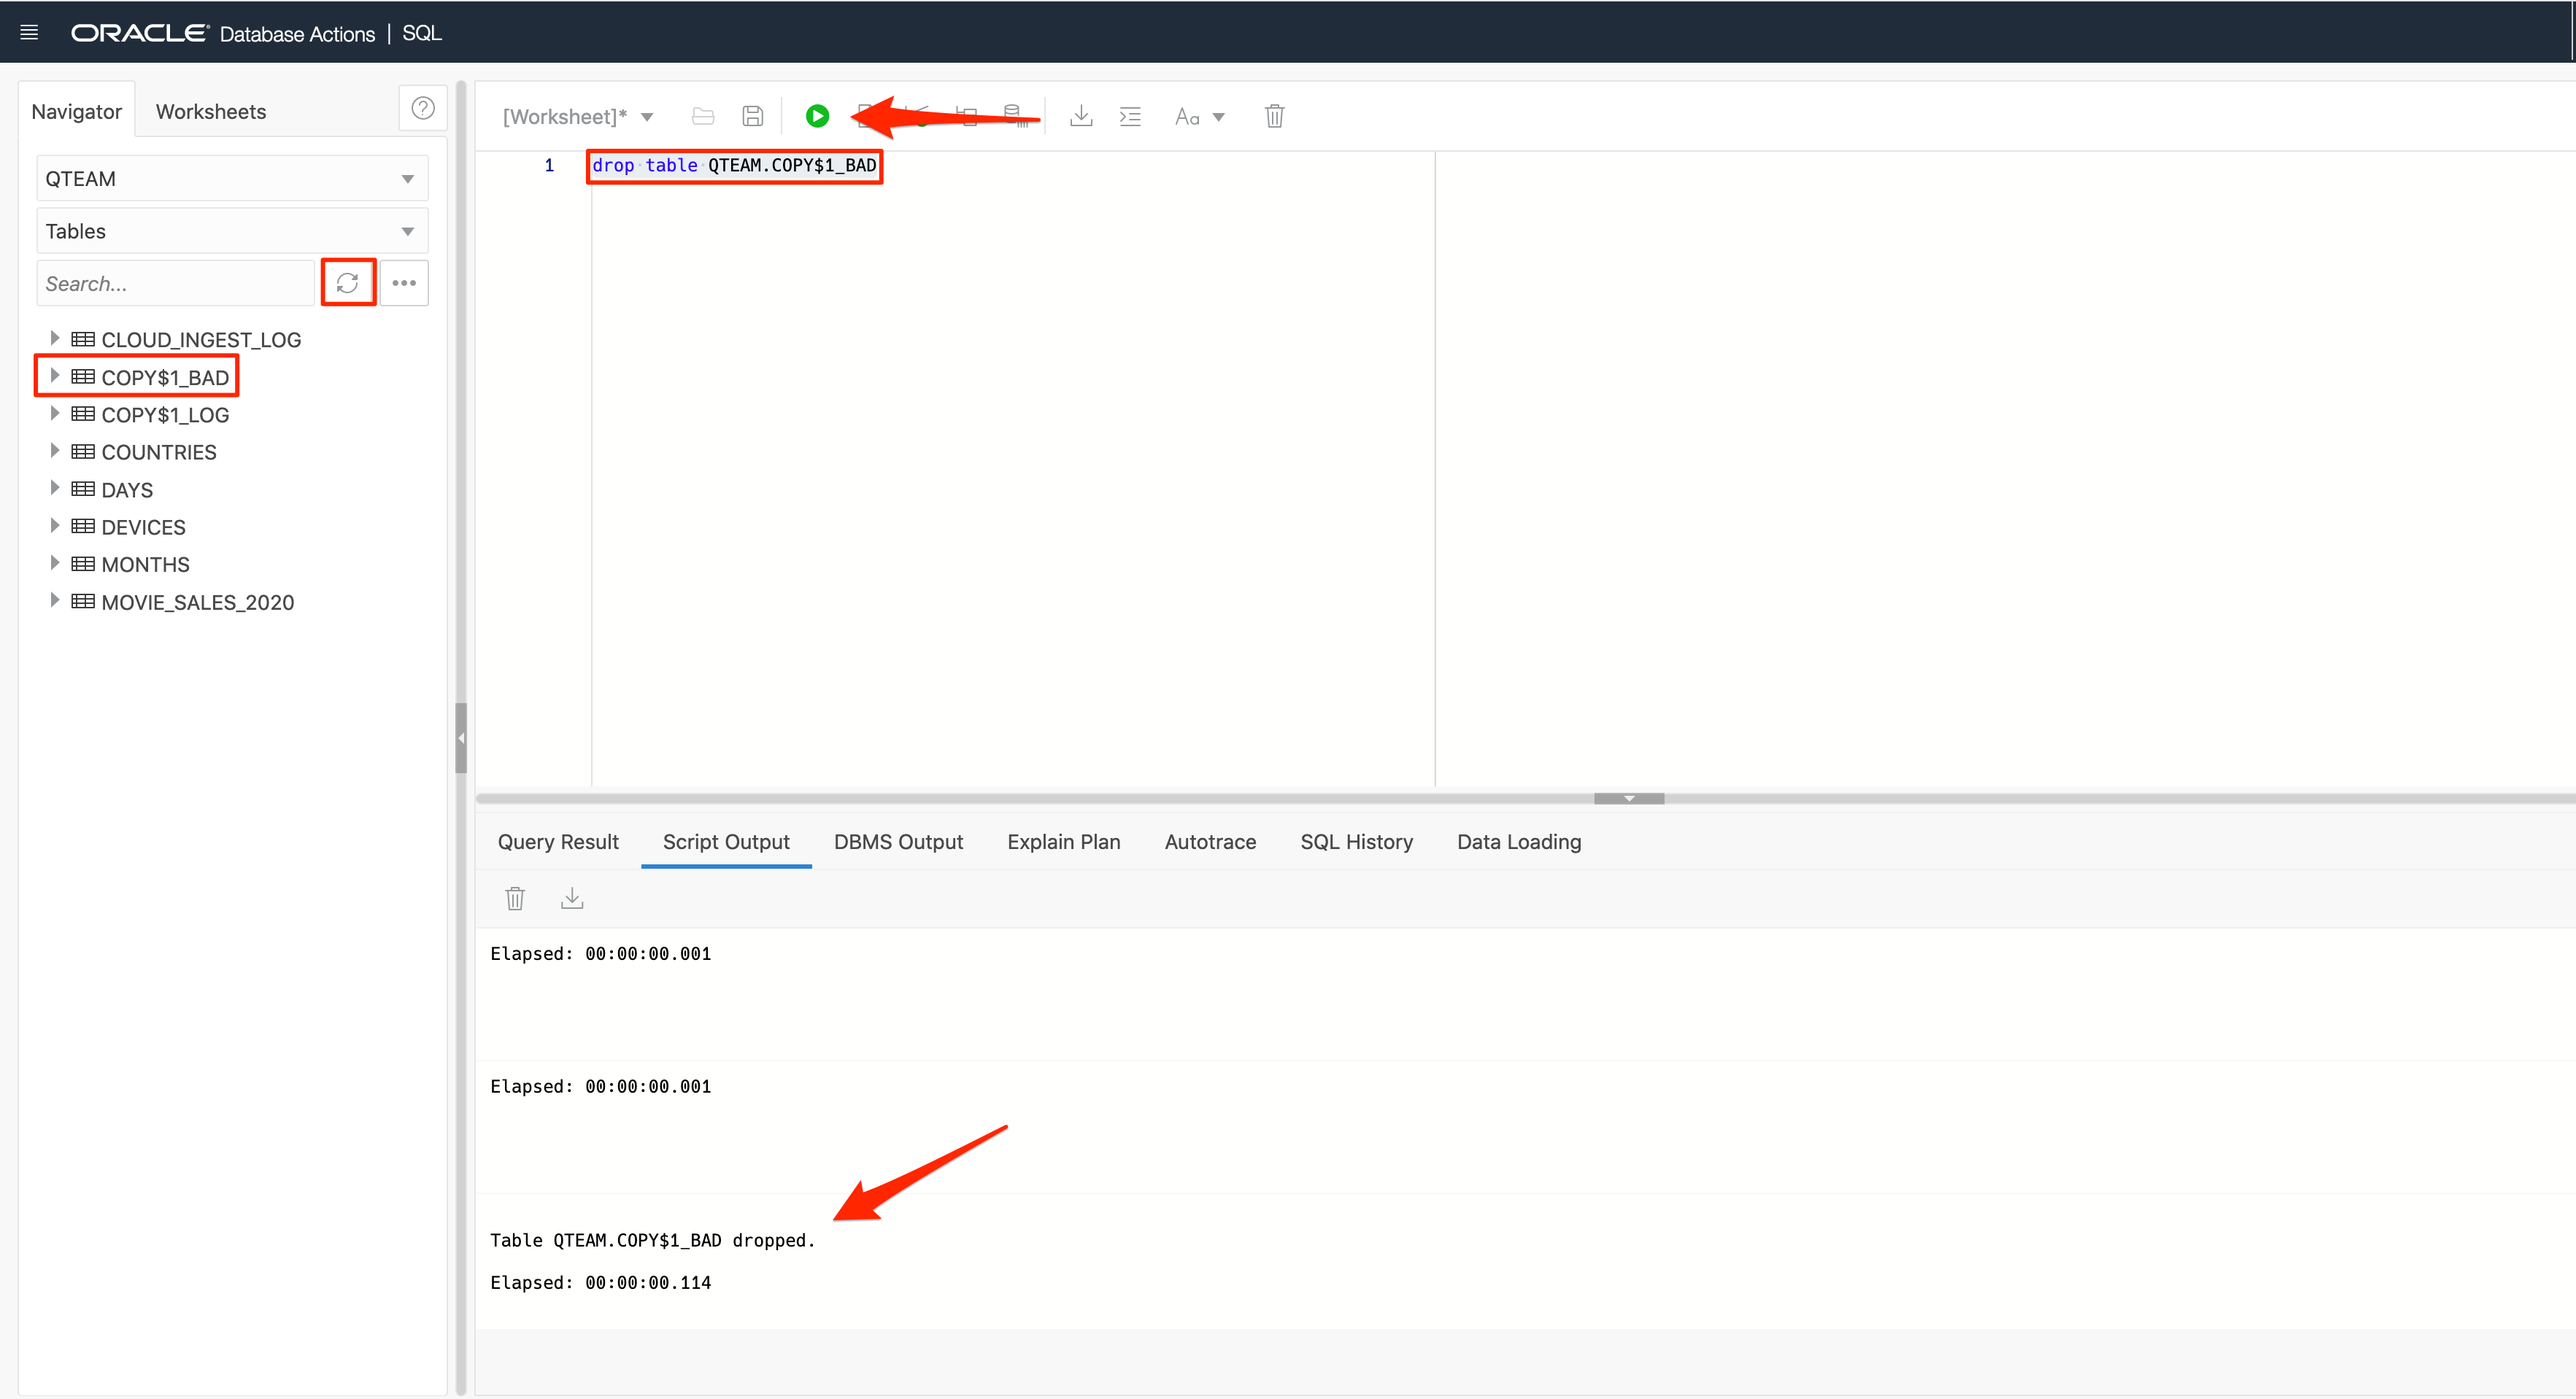
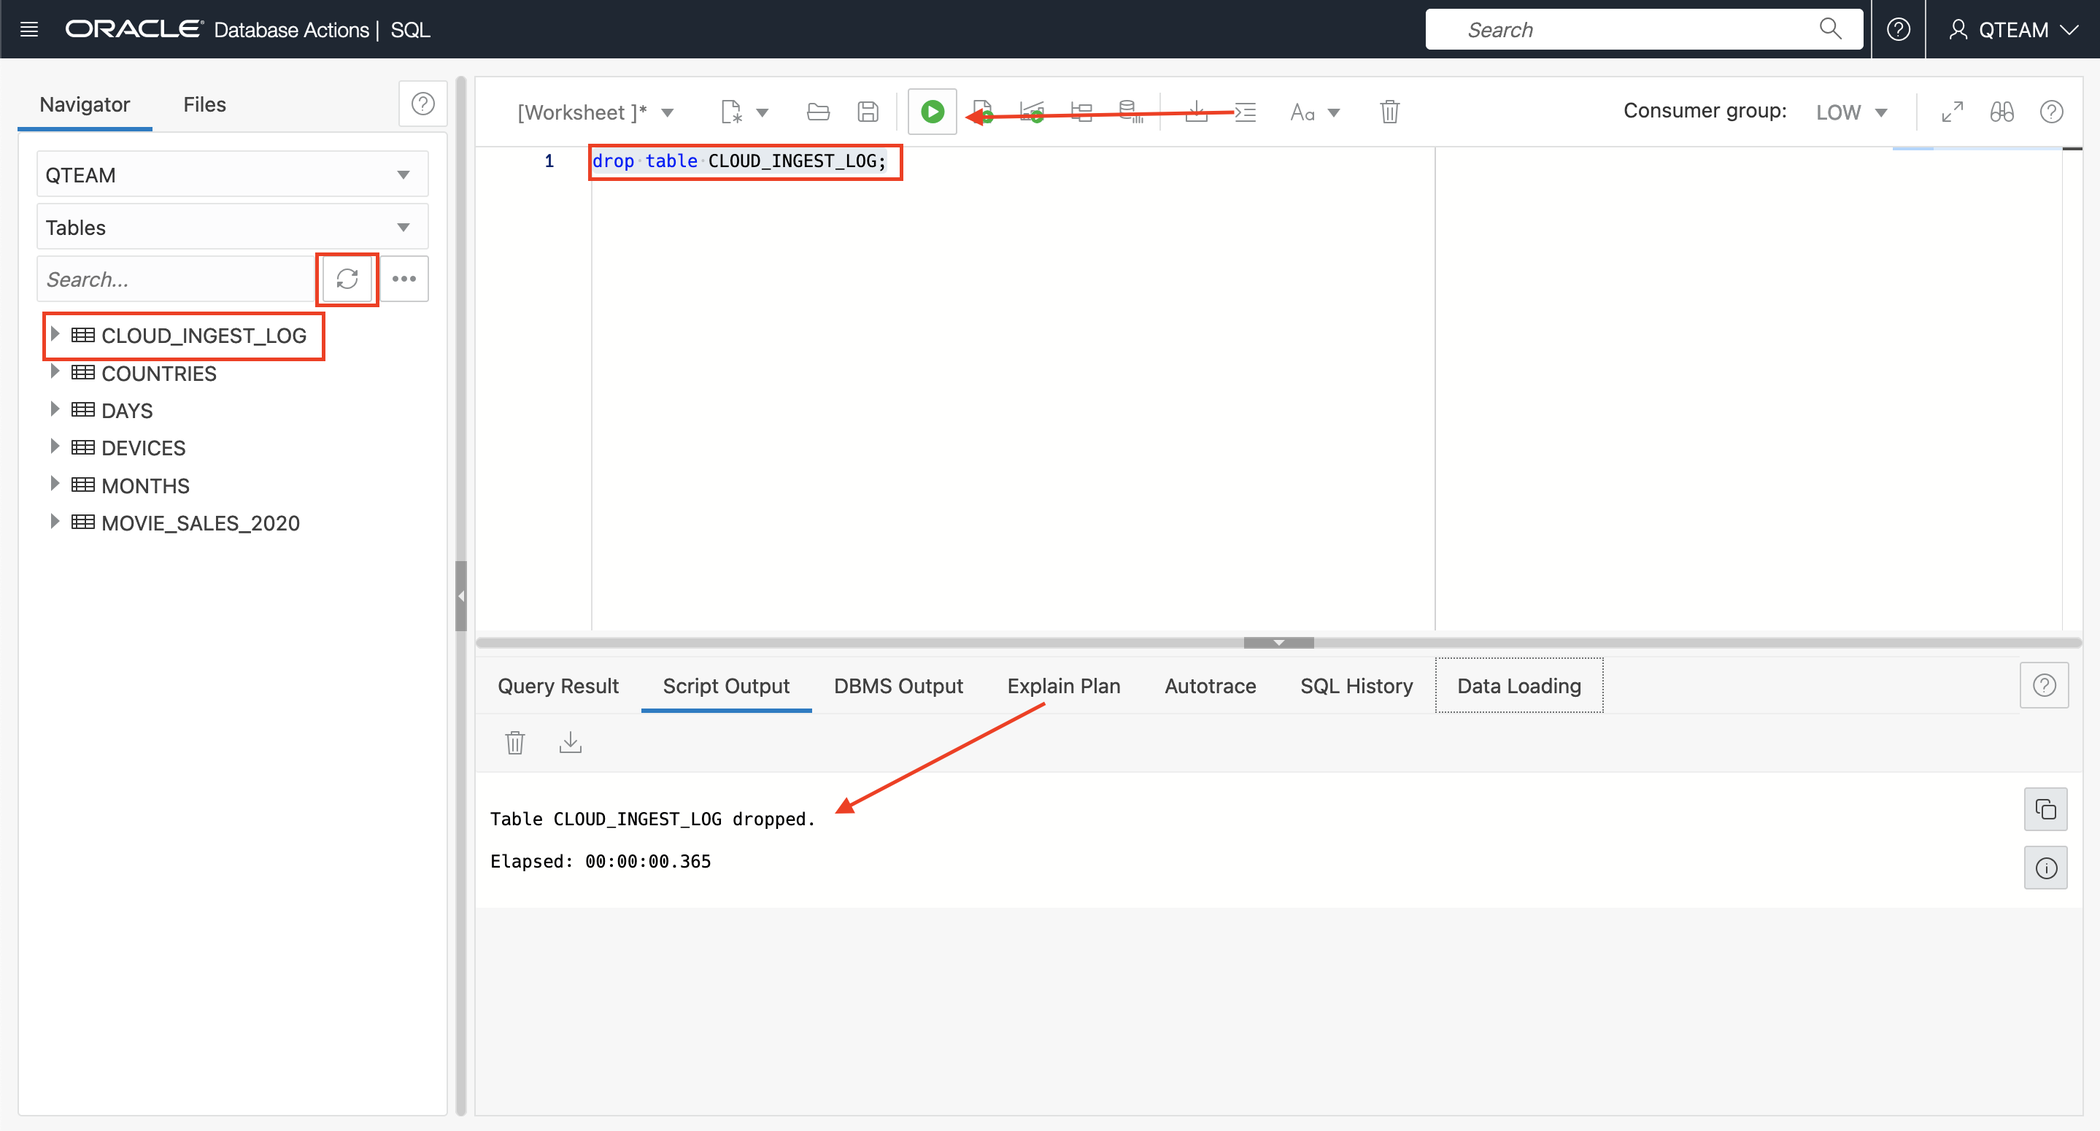
WMSID-5001: Added web transforms
Added web transforms

diff --git a/shared/workshops/adbs-tools/using-adb-tools/ocw-using-adb-tools.md b/shared/workshops/adbs-tools/using-adb-tools/ocw-using-adb-tools.md
@@ -236,12 +236,14 @@ Identify a Cloud Storage location (URI + Bucket) that is closest to you from th
 ### Inspect Data In Table MOVIE\_SALES\_2020
 
 22. Navigate to the **Data Load** main page and click the **Explore** card, this launches the **Catalog** tool. You'll now see table MOVIE\_SALES\_2020 has been loaded into your Autonomous Data Warehouse.
-23. Click the card for this table and then click **Statistics** on the panel to the left of the screen. Statistics help you quickly understand the structure and content of the table. In this case, this data presents a nice simple way to characterize the data you've just loaded. 
+  ![Movie Sales Fact Catalog Card](images/MovieSalesFact2020CatalogCard.png)
+23. Click the **MOVIE\_SALES\_2020** name on the card for the table and then click **Statistics** on the panel to the left of the screen. Statistics help you quickly understand the structure and content of the table. In this case, this data presents a nice simple way to characterize the data you've just loaded. 
   ![ALT text is not available for this image](images/explore-sales.png)
 
 ### Identify Data Problems
 
 24. Expand the **DAY** card to review stats of that column. You can see that there are 14 distinct values - which looks odd. The low value is **FRIDAY** (i.e. it's all uppercase) and the high value is **Wednesday**, which is in title case. The distribution of these values is shown in the bar chart at the bottom of the form (see the image above). As you move your mouse across these bars, you can see there are two separate bars for each day: one in uppercase and the other in title case.
+  ![Movie Sales Fact DAY column issue](images/salesDayIssue.png)
 25. You can also see that you have data for twelve months. This should not be a surprise, since the data extract you loaded in the previous step was for 2020. However, for your quarterly reporting project, it's obvious that you have too many months: your mission here is to analyze data only for Q2. 
 26. Right now, simply take a note of these issues. You will address these issues in a later stage of the workshop. 
 
@@ -269,17 +271,17 @@ This section is provided in case your workshop environment does not allow you to
 
 ### Clean Up Data Load Log Tables
 
-During data load from Object Storage, Autonomous Data Warehouse creates a number of ancillary tables for logging purposes.
+During data load from Object Storage, Autonomous Data Warehouse creates an ancillary table for logging purposes.
 
 32. Following data load from Object Storage, if you click the **Explore** card on the **Data Load** main page, it may look like this: 
   ![ALT text is not available for this image](images/explore.png)
-33. Three such logging tables are highlighted above. There may be more than one table with names beginning with COPY$. Following the successful load operations, these tables are no longer required, and can safely be dropped. You'll do this using a SQL Worksheet. Navigate to this tool directly from the hamburger menu at the top left, open the Development menu if necessary, and press **SQL**.
+33. A logging table **CLOUD_INGEST_LOG** is highlighted above. Following the successful load operations, this table is no longer required, and can safely be dropped. You'll do this using a SQL Worksheet. Navigate to this tool directly from the hamburger menu at the top left, open the Development menu if necessary, and press **SQL**.
   ![ALT text is not available for this image](images/sql.png)
-34. Drop the tables as follows:
+34. Drop the table as follows:
 
-    a. Click the **refresh** button (circular arrows) to see the full list of tables in the schema and identify the logging tables.
+    a. Click the **refresh** button (circular arrows) to see the full list of tables in the schema and identify the logging table.
 
-    b. For each table type, drop table {TABLE NAME} in the SQL Worksheet.
+    b. For the table enter, drop table **CLOUD_INGEST_LOG** in the SQL Worksheet.
 
     c. Click the green **Run** button.
 
@@ -312,6 +314,7 @@ Watch a video demonstration of the Data Transforms tool of Autonomous Database:
 [] (youtube:Xg5VK_R4-IM)
 > **Note:** Interfaces in this video may look different from the interfaces you will see.
 
+<if type != "usewebtransforms">
 That’s something to look forward to, but is not currently covered in this lab.
 
 ### Use SQL 
@@ -333,12 +336,126 @@ As an alternative to using the Data Transforms Tool, you can perform the necessa
     , PURCHASES
     FROM MOVIE_SALES_2020
     where month in ('April','May','June'); -- only want data from Q2
-    exec dbms_stats.gather_table_stats(user, 'MOVIE_SALES_2020Q2');
     </copy>
     ````
 
 2. Select the entire text in the Worksheet and press the **green** button to run these two statements. You should see that both statements have executed successfully. Having completed this step you now have a table MOVIE\_SALES\_2020Q2, with data for just April, May, and June. The days have all been changed to title case. Refresh to see the new table created.
 ![ALT text is not available for this image](images/data-transforms.png)
+
+</if>
+<if type = "usewebtransforms">
+### Use Web based DATA TRANSFORMS
+
+1. Navigate to the **Database Actions** home page by clicking the top link. Under **Data Tools** click the **DATA TRANSFORMS** card.
+  ![Launch Data Transforms](images/dataTransformsLaunch.png)
+
+2. On the **SIGN IN** page, provide your credentials, click **Sign In**.
+  ![Sign In Data Transforms](images/dataTransformsSignIn.png)
+
+3. On the home page click the **Connections** on the left navigation to update the connection to the current user.
+  ![Launch Connections](images/dataTLaunchConnections.png)
+
+4. Select the existing connection that defaults to the Autonomous Database we are working on to edit it.
+  ![Launch Edit Connection to ADW](images/dtLaunchEditConn.png)
+
+5. Update the **User** and **Password** fields with the **QTEAM** user credentials. **Test Connection** and then click **Update**.
+  ![Update Connection](images/dtUpdateConn.png)
+
+6. Now we will update the **Data Entities**, to fetch the existing tables in the **QTEAM** schema. Follow the steps below.
+    1. Click the **Data Entities** on the left navigation pane.
+    2. Click **Import Data Entities** button.
+    3. On the **Import Data Entities** pop-up, select the **Connection** you just updated.
+    4. Choose the **QTEAM** as the **Schema**
+    5. Under **Type** remove the **View** as we do not want to import any database views.
+    6. Click **Start**
+  ![Import Data Entities from QTEAM](images/dtImportDataEntities.png)
+
+7. A new job is created to import the data entities from **QTEAM** Schema. Click on the link for the job name on the pop-up window, to launch the **Job Details** page.
+  ![Import Data Entities job popup](images/dtImportDataEntitiesjobPopUp.png)
+
+8. On the **Job Details** page, click **refresh** button on the right to check job status. Once the job completes, you should see some details as highlighted below and then click **Home** navigation link on the top left.
+ ![Import Data Entities job details](images/dtImportDataEntitiesjobDetails.png)
+
+9. We are now ready to create a **Data Flow**. On the home page, click the **Transform Data** card. This launches the **Create Data Flow** wizard.
+    1. Provide **Name** as **loadQ2CleanseDay**
+    2. Click the **+** icon next to **Project Name**.
+    3. Provide a **Description** as follows: Data Flow to load Q2 data and fix the DAY column.
+    4. On the pop-up screen, provide the **Name** as **MOVIE_SALES** and click **Create**.
+      ![Create Dataflow Step 1](images/dtCreateDFStep1.png)
+    5. Click **Next**.
+    6. Select the **Connection** that was edited in a previous step.
+    7. Select the **Schema** as **QTEAM**.
+    8. Click **Save**.
+      ![Create Dataflow Step 2](images/dtCreateDFStep2.png)
+
+10. This launches the **Data Flow Details** page. Let's reivew this page. The left navigate pane lists the **Data Entities** we are working with. The middle section is the canvas that shows the different transformations used in the data flow. The right pane, provides details of the selected object in the middle section where the properties are shown which can be edited.
+ ![Data Flow Details Page](images/dtDataFlowDetailsOverview.png)
+
+11. Perform the following steps to setup the data flow to filter data for **Q2**.
+    1. Drag the **MOVIE\_SALES\_2022** table from the QTEAM schema on the left navigation pane to the canvas. This is our source table.
+    2. Drag the **Filter** transformation from the top of the middle section on the canvas.
+    3. Link the **MOVIE\_SALES\_2022** table to the **Filter**.
+    4. Select the **Filter** transformation and change the **Name** on the right navigation pane to **filQ2Data**.
+    5. Choose the **filQ2Data** properties option
+    6. Optionally expand the properties pane.
+      ![Data Flow drag source fact table](images/dtDataFlowDragSourceFilter.png)
+    7. Click on the edit icon to define the filter.
+    8. On the **Expression Editor** pop-up, type the following expression:
+        ````
+        <copy>
+        MOVIE_SALES_2020.MONTH IN ('April','May','June')
+        </copy>
+        ````
+    9. Click **OK**.
+      ![Data Flow setup filter expression](images/dtDataFlowSetupFilterExpression.png)
+    10. Minimize the filter property pane.
+
+12. Perform the following steps to fix the DAY field:
+    1. Click the **DATA PREPARATION** tab on the transforms section in the middle
+    2. Drag the **Data Cleanse** transformation on the canvas.
+    3. Link the **filQ2Data** output to the input of the **DataCleanse** transformation.
+    4. Select the DataCleanse transformation and rename to **fixDAY**.
+    5. Add the **Description** as **Fix DAY to be initcap and remove leading and trailing spaces**.
+    6. Choose the **fixDAY** properties option
+    7. Expand the properties pane
+      ![Data Flow add Cleanse](images/dtDataFlowAddCleanse.png)
+    8. On the **fixDAY** transformation properties window, select the **DAY** column from the **MOVIE\_SALES\_2022** source.
+    9. In the **Choose the cleansing options** section, select the **Leading and Trailing Whitespace** option under **Remove Unwanted Characters**
+    10. For the **Modify Case** choose the option **Title Case**.
+    11. Minimize the properties window.
+      ![Data Flow set Cleanse properties](images/dtDataFlowSetCleanseProperties.png)
+
+13. Perform the following steps to create a new target table **MOVIE\_SALES\_2020\_Q2**
+    1. Select the **fixDAY** transformation.
+    2. Click the **Add Target** icon on the top right of the transformation.
+      ![Data Flow Add Target table icon](images/dtDataFlowAddTargetTableIcon.png)
+    3. On the **Add Data Entity** pop-up set **Name** as **MOVIE\_SALES\_2020\_Q2**, **Schema** as **QTEAM**
+    4. Click **Next**
+      ![Data Flow Create Target Step 1](images/dtDataFlowCreateTargetStep1.png)
+    5. select all the columns.
+      ![Data Flow Create Target Step 2](images/dtDataFlowCreateTargetStep2.png)
+    6. Click **Next**
+    7. Click **Save**
+      ![Data Flow Create Target Step 3](images/dtDataFlowCreateTargetStep3.png)
+    
+14. The final data flow should look like the following screen.
+    1. **Validate** the data flow
+    2. **Save** the data flow
+    3. **Run** the data flow.
+      ![Final data flow and run](images/dtDataFlowFinalDataFlow.png)
+    4. On the **Start Data Flow** pop-up, click **Start**.
+    5. The data flow execution starts. Click the blue link on the **Start Data Flow** pop-up to track the execution progress.
+      ![Final data flow execution start](images/dtDataFlowStartExec.png)
+
+15. After successfull execution, a new table **MOVIE\_SALES\_2020Q2** is created and the details are as shown below. Click **Refresh** icon to update execution status.
+  ![data flow execution details](images/dtDataFlowExecDetails.png)
+
+16. Having completed this step you now have a table **MOVIE\_SALES\_2020Q2**, with data for just April, May, and June. The days have all been changed to title case. 
+
+17. From the Autonomous Database **Tools** home page, access a SQL worksheet by clicking the **SQL** card on the **Database Actions** page. Refresh to see the new table created.
+  ![New Fact table with Q2 data](images/movieSalesQ2DataTable.png)
+
+</if>
 
 ## Task 4: Analyze Data
 
